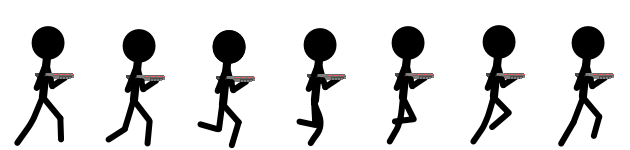
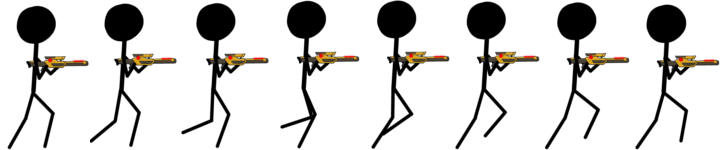
New animation
eh, needs some more work

diff --git a/UnitAnimations/Walk.py b/UnitAnimations/Walk.py
@@ -8,7 +8,7 @@ class Walk():
     def nextFrame(self):
         if self.wait == 0:
             self.frame += 90
-            if self.frame >= 90*7:
+            if self.frame >= 90*8:
                 self.frame = 0
         self.wait += 1
         if self.wait == 4:
@@ -17,7 +17,7 @@ class Walk():
         if self.wait == 0:
             self.frame -= 90
             if self.frame <= 0:
-                self.frame = 90*6
+                self.frame = 90*7
         self.wait += 1
         if self.wait == 4:
             self.wait = 0
